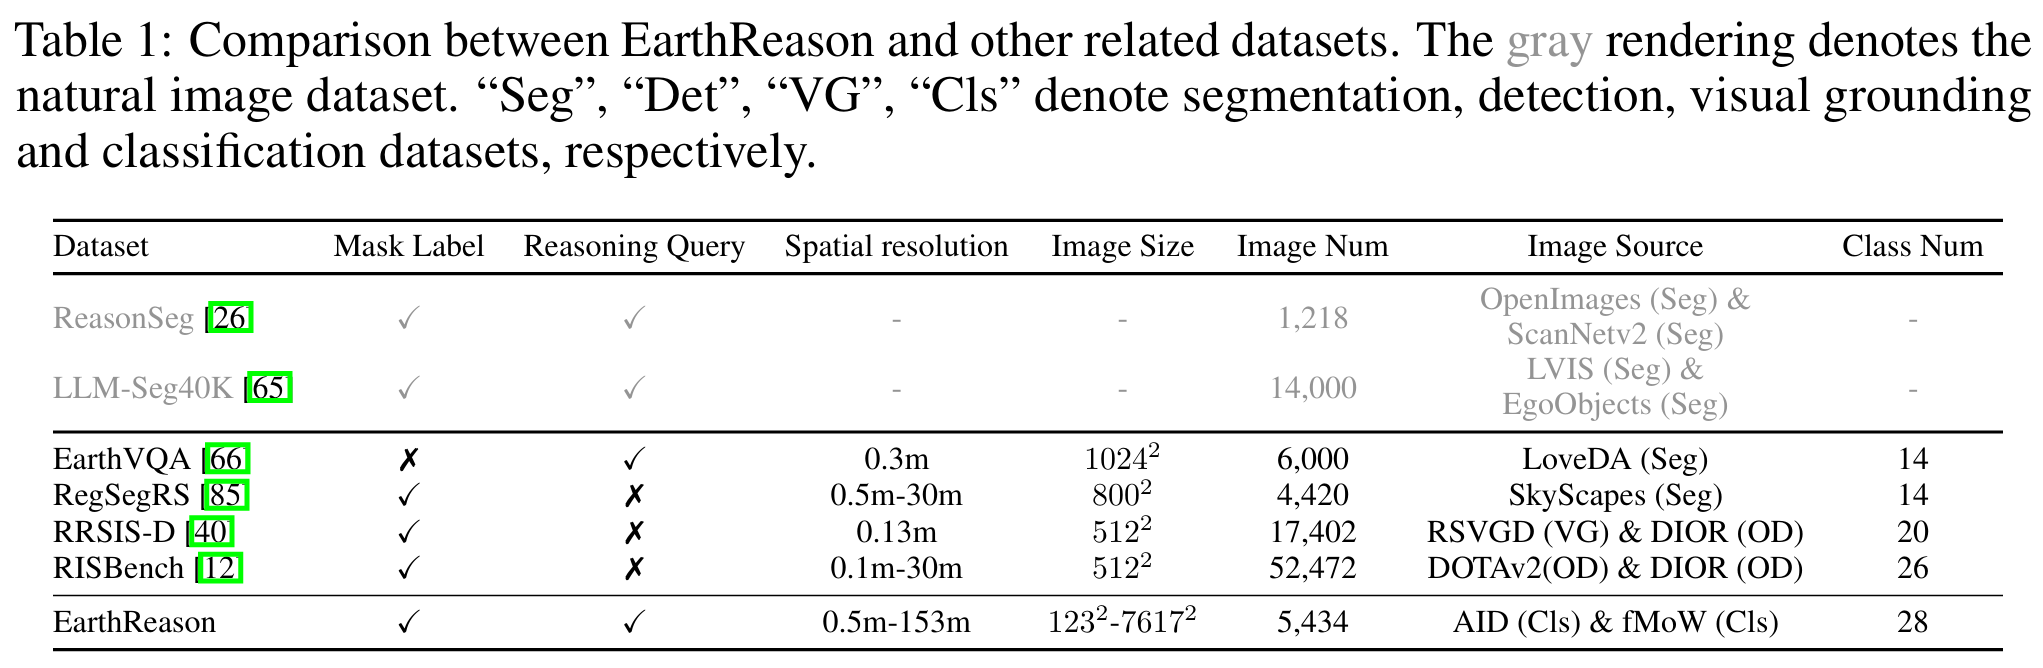
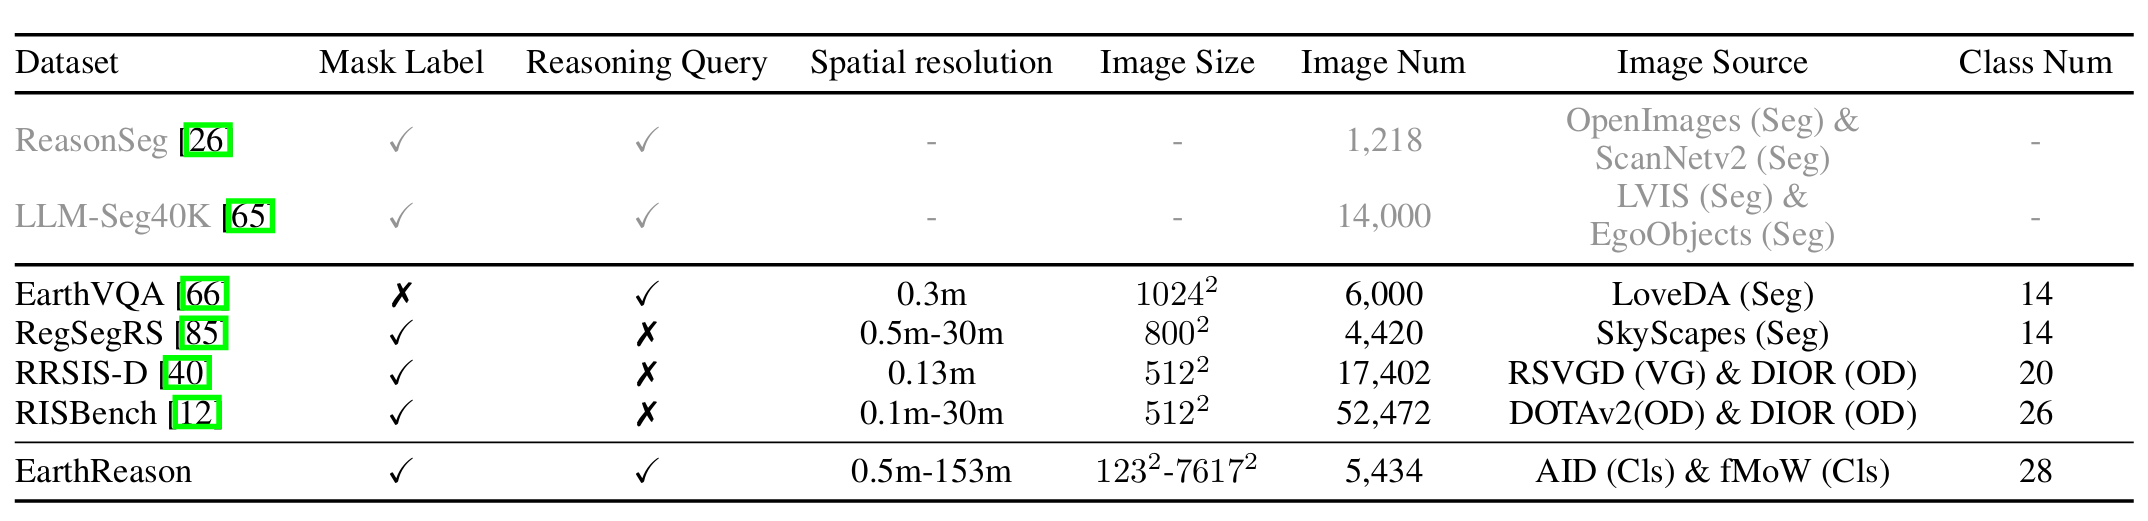
upd

diff --git a/index.html b/index.html
@@ -171,18 +171,6 @@
     </div>
 </span>
 <br>
-<table align="center" width="300px"></table>
-    <tbody>
-    <tr>
-        <td align="center" width="100px">
-            <center>
-                <span style="font-size:20px">— Make OVSS possible in remote sensing contexts</span>
-            </center>
-        </td>
-
-    </tr>
-    </tbody>
-</table>
 <br>
 <!-- <br> -->
 <table align="center" width="1150px">
@@ -337,6 +325,19 @@
     <h2>Teaser</h2>
 </div> -->
 
+<table align="center" style="width: 1100px; border-collapse: collapse;">
+    <tbody>
+      <tr>
+        <td style="text-align: center; padding: 10px; line-height: 1.5;">
+          <div style="font-size: 20px; max-width: 100%;">
+            <strong>TL;DR</strong> We introduce the geospatial pixel reasoning task, construct the first benchmark dataset (EarthReason),<br>
+            and propose a simple yet effective baseline (SegEarth-R1).
+          </div>
+        </td>
+      </tr>
+    </tbody>
+</table>
+
 
 <p style="text-align:justify; text-justify:inter-ideograph;">
 <table>
@@ -376,6 +377,30 @@
 <br>
 <hr>
 <div style="text-align: center;">
+    <h1>Dataset</h1>
+</div>
+
+<table>
+    <tr>
+        <td>
+            <div style="text-align: center;">
+                <img src="resources/table1.png" width="80%">
+            </div>
+        </td>
+    </tr>
+    <tr>
+        <td>
+            <p style="text-align:justify; text-justify:inter-ideograph;">
+                <br>
+                Comparison between EarthReason and other related datasets. The gray rendering denotes the natural image dataset. "Seg", "Det", "VG", "Cls" denote segmentation, detection, visual grounding and classification datasets, respectively.
+            </p>
+        </td>
+    </tr>
+</table>
+
+<br>
+<hr>
+<div style="text-align: center;">
     <h1>Method</h1>
 </div>
 
@@ -383,7 +408,7 @@
     <tr>
         <td>
             <div style="text-align: center;">
-                <img src="resources/method.png" width="100%">
+                <img src="resources/method.png" width="80%">
             </div>
         </td>
     </tr>
@@ -397,43 +422,60 @@
     </tr>
 </table>
 
+
 <br>
 <hr>
 <div style="text-align: center;">
-    <h2>Quantitative Results</h2>
+    <h1>Quantitative Results</h1>
 </div>
 
 <table>
     <tr>
         <td>
-            <!-- <p>
-                <b>
-                    title
-                </b>
+            <p>
+                <h4 style="text-align: center;">
+                    Geospatial pixel reasoning results among SegEarth-R1 (ours) and previous related works.
+                </h4>
             </p>
-            <p style="text-align:justify; text-justify:inter-ideograph;">
+            <!-- <p style="text-align:justify; text-justify:inter-ideograph;">
                 xxx
             </p> -->
             <div style="text-align: center;">
-                <img src="resources/results1.png" width="100%">
+                <img src="resources/table2.png" width="45%">
             </div>
         </td>
     </tr>
 
     <tr>
-      <td>
-          <!-- <p>
-              <b>
-                  title
-              </b>
-          </p>
-          <p style="text-align:justify; text-justify:inter-ideograph;">
-              xxx
-          </p> -->
-          <div style="text-align: center;">
-              <img src="resources/results2.png" width="100%">
-          </div>
-      </td>
+        <td>
+            <p>
+                <h4 style="text-align: center;">
+                    Referring segmentation results among SegEarth-R1 and previous related works on RRSIS-D dataset.
+                </h4>
+            </p>
+            <!-- <p style="text-align:justify; text-justify:inter-ideograph;">
+                xxx
+            </p> -->
+            <div style="text-align: center;">
+                <img src="resources/table3.png" width="40%">
+            </div>
+        </td>
+    </tr>
+
+    <tr>
+        <td>
+            <p>
+                <h4 style="text-align: center;">
+                    Referring segmentation results among SegEarth-R1 and previous related works on RefSegRS dataset.
+                </h4>
+            </p>
+            <!-- <p style="text-align:justify; text-justify:inter-ideograph;">
+                xxx
+            </p> -->
+            <div style="text-align: center;">
+                <img src="resources/table4.png" width="75%">
+            </div>
+        </td>
     </tr>
 
 
@@ -442,7 +484,7 @@
 <br>
 <hr>
 <div style="text-align: center;">
-    <h2>Visualizations</h2>
+    <h1>Visualizations</h1>
 </div>
 
 <table>
@@ -451,32 +493,26 @@
             <!-- <p style="text-align:justify; text-justify:inter-ideograph;">
                 xxx
             </p> -->
-            <p style="text-align:justify; text-justify:inter-ideograph;">
-              <strong>Visualizations of the segmentation results</strong>
-            </p>
+            <h3 style="text-align:center; text-justify:inter-ideograph;">
+                Qualitative Results of SegEarth-R1 on EarthReason.
+            </h3>
             <div style="text-align: center;">
-                <img src="resources/sample.jpg" width="100%">
+                <img src="resources/res_vis.png" width="100%">
             </div>
-            <p style="text-align:justify; text-justify:inter-ideograph;">
+            <!-- <p style="text-align:justify; text-justify:inter-ideograph;">
               <strong>More Visualization ...</strong>
-            </p>
-            <p style="text-align:justify; text-justify:inter-ideograph;">
-                <!-- OpenEarthMap -->
-            </p>
+            </p> -->
+            <h3 style="text-align:center; text-justify:inter-ideograph;">
+                Comparison with other models on EarthReason.
+            </h3>
             <div style="text-align: center;">
-                <img src="resources/OEM.jpg" width="90%">
+                <img src="resources/res_vis_s1.png" width="80%">
             </div>
-            <p style="text-align:justify; text-justify:inter-ideograph;">
-                <!-- UDD5 -->
-            </p>
+            <h3 style="text-align:center; text-justify:inter-ideograph;">
+                Comparison with PSALM on RRSIS-D.
+            </h3>
             <div style="text-align: center;">
-                <img src="resources/UDD5.jpg" width="90%">
-            </div>
-            <p style="text-align:justify; text-justify:inter-ideograph;">
-                <!-- WHU Building -->
-            </p>
-            <div style="text-align: center;">
-                <img src="resources/WHU.jpg" width="90%">
+                <img src="resources/res_vis_s2.png" width="50%">
             </div>
         </td>
     </tr>
